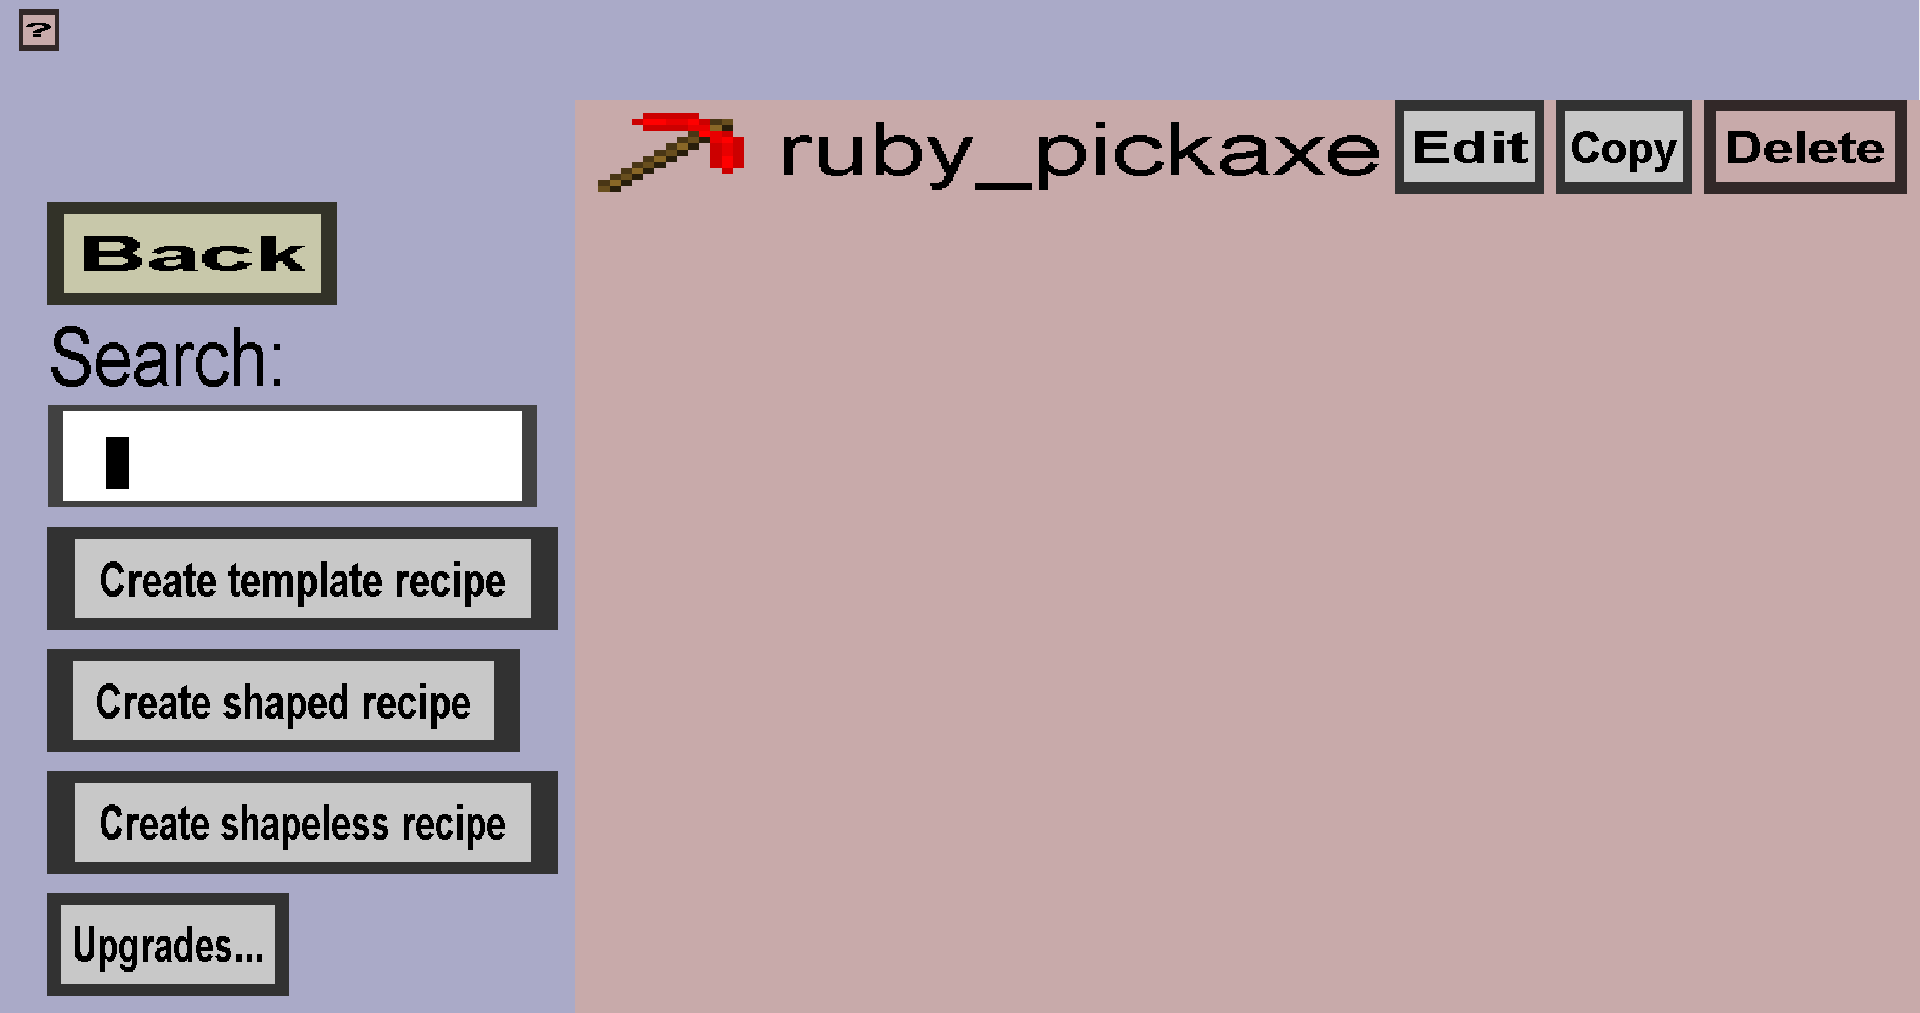
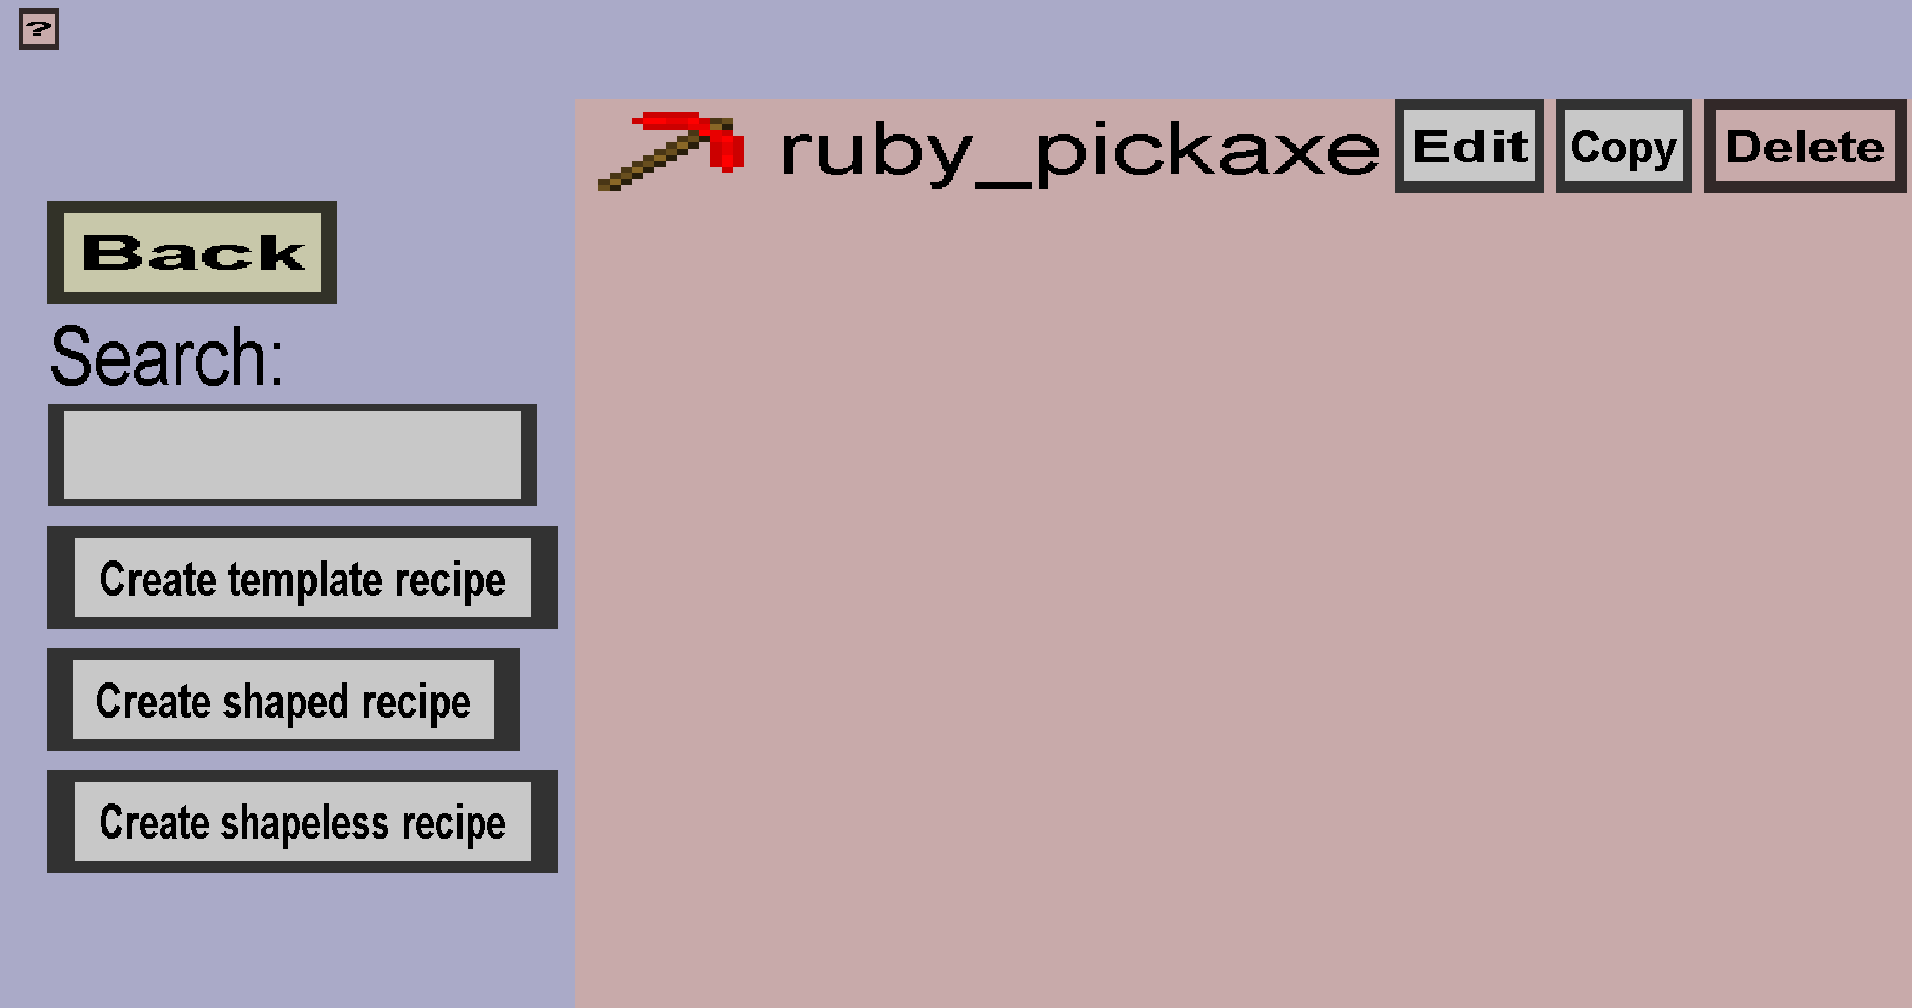
Document the furnace recipes of KCI 13

diff --git a/custom items/editor documentation/edit menu/recipes/furnace edit.html b/custom items/editor documentation/edit menu/recipes/furnace edit.html
@@ -1,0 +1,38 @@
+<!DOCTYPE html>
+<html>
+    <head>
+        <meta charset="UTF-8" />
+        <title>Furnace recipe edit menu</title>
+    </head>
+    <body>
+        <p>
+            The furnace recipe edit menu can be used to create or edit custom furnace recipes.
+            It should look like this:
+        </p>
+        <img src="furnace edit.png" width="50%" />
+        <h3>Input</h3>
+        <p>
+            The input/ingredient of the furnace recipe. Due to technical reasons, the input must <b>not</b>
+            be the input of a vanilla furnace recipe (like iron ore). Due to another technical reason, when multiple
+            custom furnace recipes have the same internal input item, at most 1 of them can have a result that can stack.
+        </p>
+        <h3>Result</h3>
+        <p>
+            The result/output of the furnace recipe.
+        </p>
+        <h3>Cooking time</h3>
+        <p>
+            The cooking time/duration of the recipe, in ticks (20 ticks = 1 second). The default duration is
+            200 ticks, which is 10 seconds. This is also the duration of vanilla minecraft furnace recipes.
+            Due to technical reasons, all custom furnace recipes that use the same internal input item must have
+            the same cooking time.
+        </p>
+        <h3>Experience</h3>
+        <p>
+            The amount of experience that will be stored in the furnace after the recipe is completed.
+            For reference, smeling cobblestone gives 0.1 experience and smelting raw iron gives 0.7 experience.
+            Due to technical reasons, all custom furnace recipes that use the same internal input item must have
+            the same experience.
+        </p>
+    </body>
+</html>

diff --git a/custom items/editor documentation/edit menu/recipes/overview.html b/custom items/editor documentation/edit menu/recipes/overview.html
@@ -2,11 +2,11 @@
 <html>
     <head>
         <meta charset="utf-8" />
-        <title>Recipe overview</title>
+        <title>Crafting recipe overview</title>
     </head>
     <body>
         <p>
-            The recipe overview is the root menu from which you can add, edit and delete crafting recipes.
+            The crafting recipe overview is the root menu from which you can add, edit and delete crafting recipes.
             It should look like this:
         </p>
         <img src="overview.png" width="50%" />
@@ -38,11 +38,6 @@
             The edit and copy buttons open the submenu of the type of recipe that is edited/copied.
             In the case of copy, clicking the create/apply button will create a new entry with the modified recipe.
             In the case of edit, clicking the create/apply button will replace the recipe of that entry with the modified recipe.
-        </p>
-        <h4>Upgrades...</h4>
-        <p>
-            <i>Upgrades</i> can be used to create complicated crafting recipes. Clicking this button will take you to the
-            <a href="upgrades/overview.html">upgrade overview</a>. More information can be found if you follow that link.
         </p>
     </body>
 </html>

diff --git a/custom items/editor documentation/edit menu/items/edit/base.html b/custom items/editor documentation/edit menu/items/edit/base.html
@@ -367,5 +367,14 @@
                 and ammo of guns will no longer be shown in their lore.
             </li>
         </ul>
+        <h3>Furnace burn time</h3>
+        <p>
+            The furnace burn time decides whether the custom item can be used as furnace fuel.
+            When it is 0, the item can <b>not</b> be used as furnace fuel. 
+            When it is positive, the item can be used as furnace fuel, and it will keep the furnace
+            burning for <b>furnace burn time</b> ticks (1 second = 20 ticks).
+            Due to technical reasons, the furnace burn time must be positive if and only if the
+            internal item type is furnace fuel.
+        </p>
     </body>
 </html>

diff --git a/custom items/editor documentation/edit menu/recipes/index.html b/custom items/editor documentation/edit menu/recipes/index.html
@@ -1,0 +1,16 @@
+<!DOCTYPE html>
+<html>
+    <head>
+        <meta charset="UTF-8" />
+        <title>Recipe portal</title>
+    </head>
+    <body>
+        This plug-in provides several types of custom recipes:
+        <ul>
+            <li>Crafting recipes</li>
+            <li>Furnace recipes</li>
+        </ul>
+        Furthermore, it provides so-called <a href="upgrades/overview.html">upgrades</a> that can be used to create
+        recipes that modify ingredients.
+    </body>
+</html>

diff --git a/custom items/editor documentation/edit menu/recipes/furnace overview.html b/custom items/editor documentation/edit menu/recipes/furnace overview.html
@@ -1,0 +1,14 @@
+<!DOCTYPE html>
+<html>
+    <head>
+        <meta charset="UTF-8" />
+        <title>Furnace recipe overview</title>
+    </head>
+    <body>
+        <p>
+            The furnace recipe overview can be used to view, create, and edit custom furnace recipes. If you have 1
+            furnace recipe, it should look like this:
+        </p>
+        <img src="furnace overview.png" width="50%"/>
+    </body>
+</html>
